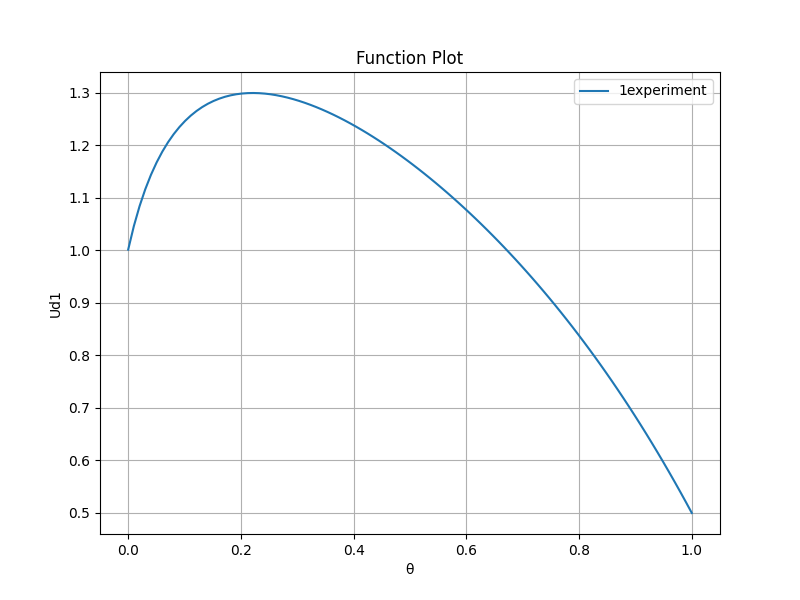
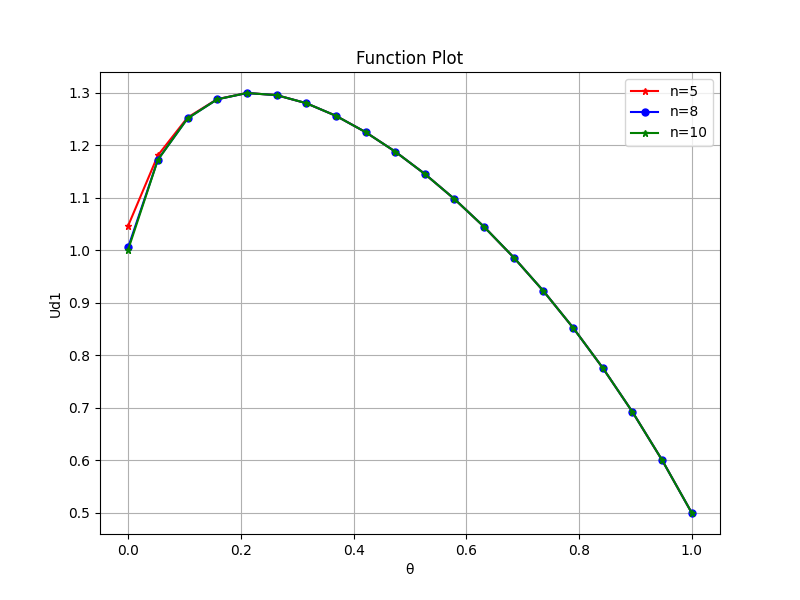
0913

diff --git a/port_exp(2d).py b/port_exp(2d).py
@@ -46,19 +46,24 @@ def UD1payoff(xt, n, pe, round):
 
 
 # 生成x轴数据
-xt = np.linspace(0, 1, 100)
+xt = np.linspace(0, 1, 15)
 # 计算函数值
-y1 = UD1payoff(xt, 10, 0.5, 0)
+y1 = UD1payoff(xt, 5, 0.5, 0)
+y2 = UD1payoff(xt, 8, 0.5, 0)
+y3 = UD1payoff(xt, 10, 0.5, 0)
 
 # 创建图像
 plt.figure(figsize=(8, 6))
-plt.plot(xt, y1, label="1experiment")
-plt.title("Function Plot")
+plt.plot(xt, y1, label="n=5", marker="*", color="red", markersize="5")
+plt.plot(xt, y2, label="n=8", marker="o", color="blue", markersize="5")
+plt.plot(xt, y3, label="n=10", marker="*", color="green", markersize="5")
+
+plt.title("ud1 vs. θ")
 plt.xlabel("θ")
 plt.ylabel("Ud1")
 plt.legend()
-plt.grid(True)
-plt.savefig("θ-ud1.png")  # 可以保存为其他格式，如PDF
+plt.grid(False)
+# plt.show()
 
 
 # 递归计算防御方（端口关闭情况下）收益,n为递归轮次，pe为推断，r为当前轮次,θ为变量
@@ -97,19 +102,22 @@ def UD2payoff(xt, n, pe, round):
 
 
 # 生成x轴数据
-xt = np.linspace(0, 1, 100)
+xt = np.linspace(0, 1, 15)
 # 计算函数值
-y2 = UD2payoff(xt, 10, 0.5, 0)
+y1 = UD2payoff(xt, 5, 0.5, 0)
+y2 = UD2payoff(xt, 8, 0.5, 0)
+y3 = UD2payoff(xt, 10, 0.5, 0)
 
 # 创建图像
 plt.figure(figsize=(8, 6))
-plt.plot(xt, y2, label="1experiment")
-plt.title("Function Plot")
+plt.plot(xt, y1, label="n=5", marker="*", color="red", markersize="5")
+plt.plot(xt, y2, label="n=8", marker="o", color="blue", markersize="5")
+plt.plot(xt, y3, label="n=10", marker="*", color="green", markersize="5")
+plt.title("ud2 vs. θ")
 plt.xlabel("θ")
 plt.ylabel("Ud2")
 plt.legend()
-plt.grid(True)
-plt.savefig("θ-ud2.png")  # 可以保存为其他格式，如PDF
+plt.grid(False)
 
 
 # 递归计算攻击方（端口关闭情况下）收益,n为递归轮次，pe为推断，r为当前轮次
@@ -197,21 +205,25 @@ def ADpayoff(xt, n, pe, round):
 
 
 # 生成x轴数据
-xt = np.linspace(0, 1, 100)
+xt = np.linspace(0, 1, 15)
 # 计算函数值
-y = ADpayoff(xt, 10, 0.5, 0)
+y1 = ADpayoff(xt, 5, 0.5, 0)
+y2 = ADpayoff(xt, 8, 0.5, 0)
+y3 = ADpayoff(xt, 10, 0.5, 0)
 
 # 创建图像
 plt.figure(figsize=(8, 6))
-plt.plot(xt, y, label="1experiment")
-plt.title("Function Plot")
+plt.plot(xt, y1, label="n=5", marker="*", color="red", markersize="5")
+plt.plot(xt, y2, label="n=8", marker="o", color="blue", markersize="5")
+plt.plot(xt, y3, label="n=10", marker="*", color="green", markersize="5")
+plt.title("ua vs. θ")
 plt.xlabel("θ")
 plt.ylabel("Ua")
 plt.legend()
-plt.grid(True)
-plt.savefig("θ-ua.png")  # 可以保存为其他格式，如PDF
+plt.grid(False)
+plt.show()
 
-
+"""
 # 递归计算攻击方（端口关闭情况下）收益,n为递归轮次，pe为推断，r为当前轮次
 def ADpayoff_left(t, n, pe, round):
     # 博弈初始配置
@@ -256,7 +268,7 @@ def ADpayoff_left(t, n, pe, round):
         return AD_l
 
 
-"""
+
 # 递归计算攻击方（端口开放情况下）收益,n为递归轮次，pe为推断，r为当前轮次,t为耐心
 def ADpayoff_right(t, n, pe, round):
     # 博弈初始配置

diff --git a/n_θ.py b/n_θ.py
@@ -8,17 +8,24 @@ def f(xt, ypxl, pi):
 
 
 # 生成x轴数据
-xt = np.linspace(0, 0.99, 100)
+xt = np.linspace(0, 0.99, 20)
 # 计算函数值，这里的 0.002 仅作示例，你可以使用不同的 ypxl 值
-ypxl = 0.01
-n = f(xt, ypxl, 0.5)
+ypxl1 = 0.1
+n1 = f(xt, ypxl1, 0.5)
+ypxl2 = 0.05
+n2 = f(xt, ypxl2, 0.5)
+ypxl3 = 0.01
+n3 = f(xt, ypxl3, 0.5)
 
 # 创建图像
 plt.figure(figsize=(8, 6))
-plt.plot(xt, n, label="1experiment")
-plt.title("Function Plot")
+
+plt.plot(xt, n1, label="ε=0.1", marker="^", color="red", markersize="5")
+plt.plot(xt, n2, label="ε=0.05", marker="o", color="blue", markersize="5")
+plt.plot(xt, n3, label="ε=0.01", marker="*", color="green", markersize="5")
+plt.title("n vs.θ")
 plt.xlabel("θ")
 plt.ylabel("n")
 plt.legend()
-plt.grid(True)
+plt.grid(False)
 plt.show()

diff --git a/θ_p~.py b/θ_p~.py
@@ -1,0 +1,26 @@
+import numpy as np
+from matplotlib import pylab as plt
+
+
+def f(xt, n):
+    return ((1 - xt) ** (n - 1)) * 0.5
+
+
+# 生成x轴数据
+xt = np.linspace(0, 1, 15)
+# 计算函数值
+y1 = f(xt, 5)
+y2 = f(xt, 8)
+y3 = f(xt, 10)
+
+# 创建图像
+plt.figure(figsize=(8, 6))
+plt.plot(xt, y1, label="n=5,p=0.5", marker="^", color="red", markersize="5")
+plt.plot(xt, y2, label="n=8,p=0.5", marker="o", color="blue", markersize="5")
+plt.plot(xt, y3, label="n=10,p=0.5", marker="*", color="green", markersize="5")
+plt.title("p~ vs. θ")
+plt.xlabel("θ")
+plt.ylabel("p~")
+plt.legend()
+plt.grid(False)
+plt.show()

diff --git a/test.py b/test.py
@@ -1,0 +1,26 @@
+import numpy as np
+import matplotlib.pyplot as plt
+
+# 生成 x 值
+x = np.linspace(0, 2 * np.pi, 15)
+
+# 生成不同的 y 值，例如 sin(x) 和 cos(x)
+y1 = np.sin(x)
+y2 = np.cos(x)
+
+# 创建图表
+plt.figure(figsize=(8, 6))
+
+# 绘制红色虚线，不带标记的折线
+plt.plot(x, y1, label="sin(x)", color="red", linestyle="-")
+
+# 绘制蓝色实线，带有圆圈标记的折线
+plt.plot(x, y2, label="cos(x)", color="blue", marker="o", linestyle="-")
+
+
+# 添加标题和图例
+plt.title("Sine and Cosine Functions")
+plt.legend()
+
+# 显示图表
+plt.show()

diff --git a/n-ua.py b/n-ua.py
@@ -18,7 +18,7 @@ def ADpayoff_left(n, pe, round):
     # 自然选择概率
     p = 0.5
     # 西塔
-    xt = 0.5
+    xt = 0.23
     # 递归轮次
 
     # 耐心随轮次指数增长
@@ -92,10 +92,10 @@ def ADpayoff(n, pe, round):
 n = []
 ua_values = []
 
-for i in range(0, 11):
+for i in range(1, 11):
     n.append(int(i))
-    ua_values.append(ADpayoff(int(i), 0.6, 0))
-    print(ADpayoff(int(i), 0.6, 0))
+    ua_values.append(ADpayoff(int(i), 0.5, 0))
+    print(ADpayoff(int(i), 0.5, 0))
 
 
 # 创建散点图
